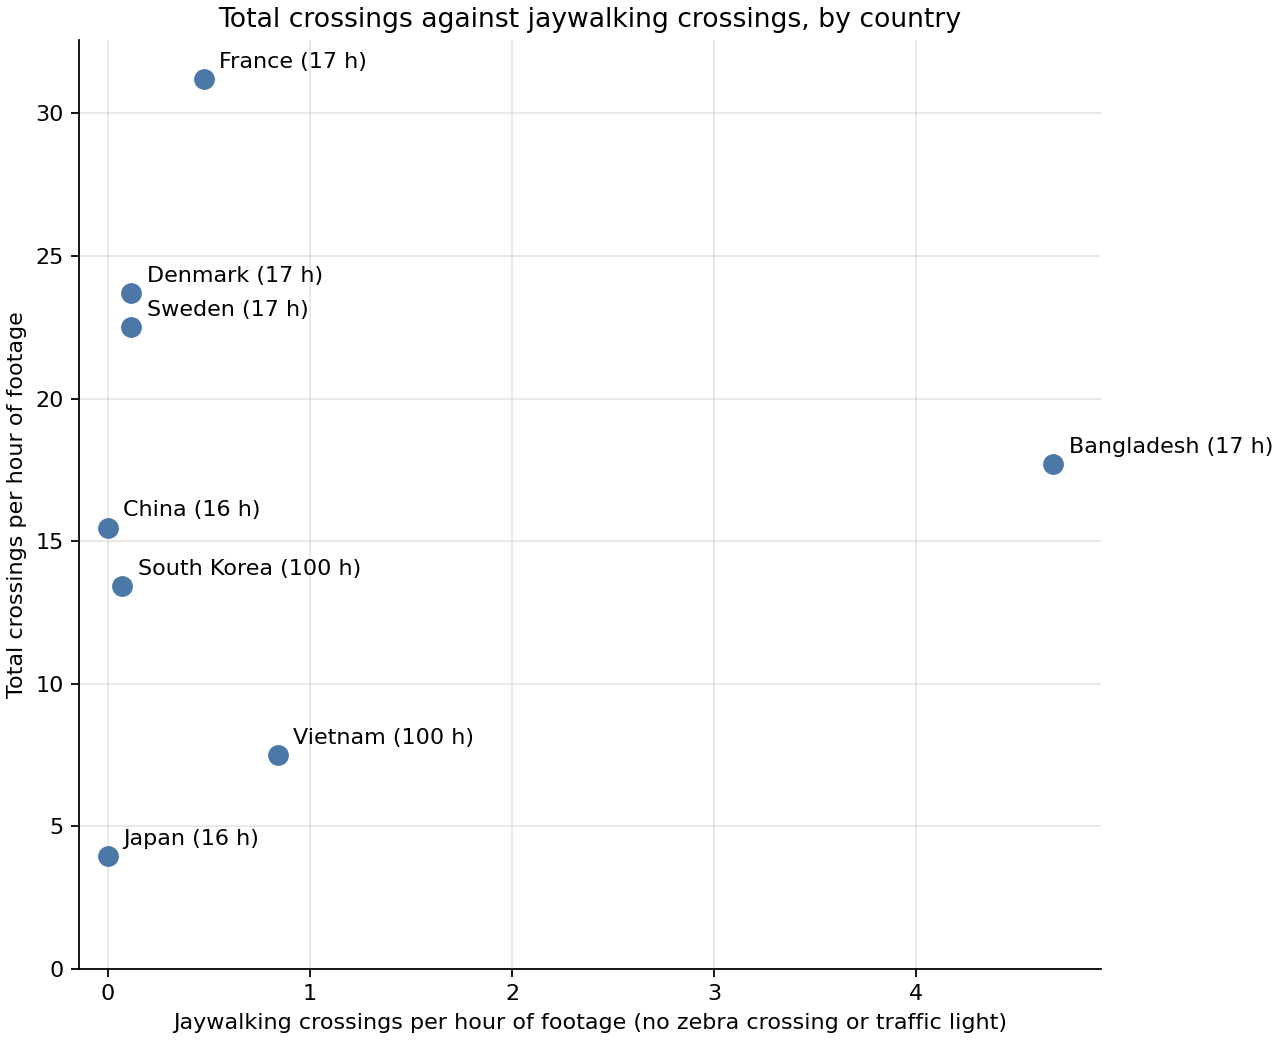
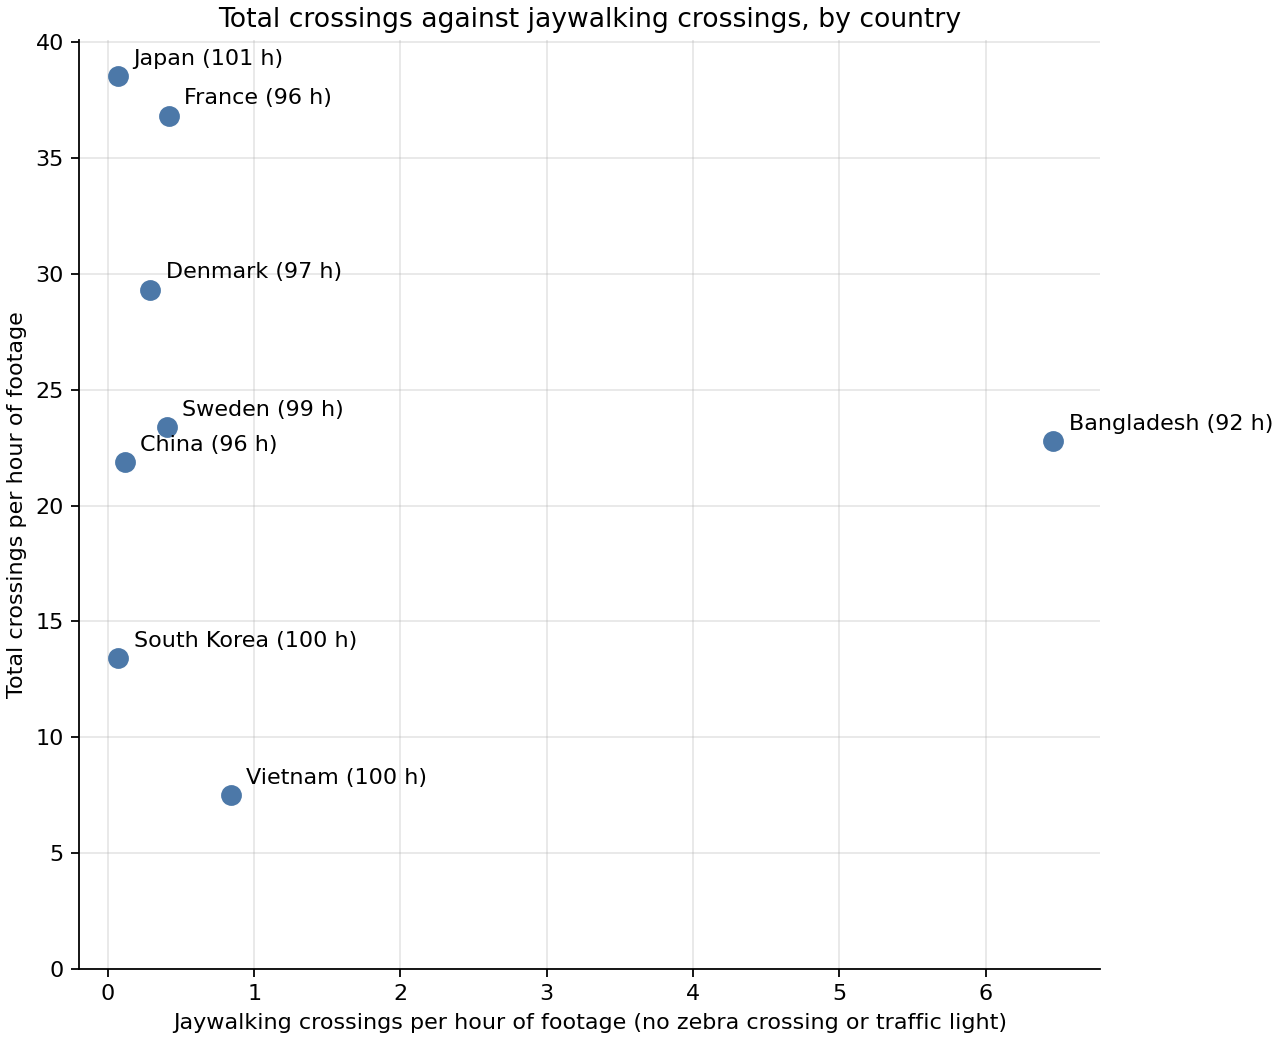
Update the six-country results to the 100 hour capital-first run; leave room for the bar plot legend

diff --git a/scripts/crowd/plot_country_crossings.py b/scripts/crowd/plot_country_crossings.py
@@ -99,7 +99,8 @@ def main() -> None:
         axis.set_ylabel(label)
         axis.set_title(title)
         axis.spines[["top", "right"]].set_visible(False)
-    counts.legend(frameon=False)
+    counts.margins(y=0.15)
+    counts.legend(frameon=False, loc="upper center", ncol=1, bbox_to_anchor=(0.5, 1.0))
     figure.suptitle("Pedestrians crossing the road, daytime dashcam footage")
     output = arguments.run / "crossings_by_country.png"
     figure.savefig(output, dpi=160)

diff --git a/README.md b/README.md
@@ -126,18 +126,18 @@ On all three JAAD splits (train, val, and test; 309 videos):
 
 ### Crossings by country (CROWD samples, stages 1 and 2)
 
-Random samples of daytime footage filmed from a car, run through stages 1 and 2 with the VLM in 4-bit mode (`scripts/crowd/select_country_sample.py`, seed 0). The country law (stage 3) is not used. A crossing counts as
+Daytime footage filmed from a car, run through stages 1 and 2 with the VLM in 4-bit mode (`scripts/crowd/select_country_sample.py`, seed 0). The six-country run fills each country to about 100 hours from its capital first (`--capitals-first`: whole source videos in random order), and only when the capital has too few hours from the next biggest cities. The country law (stage 3) is not used. A crossing counts as
 **without zebra crossing or traffic light** (jaywalking in the table) when stage 1 finds it and the VLM confirms it as a crossing and finds neither a zebra crossing, a traffic light
-nor a crossing sign. Two runs: about 100 hours over China, Japan, Bangladesh, France, Sweden and Denmark (16 to 17 hours each, 338 segments), and 100 hours each for South Korea and Vietnam (515 segments).
+nor a crossing sign. Two runs: about 100 hours each over China, Japan, Bangladesh, France, Sweden and Denmark (1,642 of 1,689 segments finished), and 100 hours each for South Korea and Vietnam, a random sample (515 segments, run earlier).
 
 | Country | Hours | Crossings detected (stage 1) | At a zebra crossing or light | Not confirmed by the VLM | Jaywalking | Jaywalking per hour |
 | --- | ---: | ---: | ---: | ---: | ---: | ---: |
-| China | 16.0 | 247 | 218 | 29 | 0 | 0.00 |
-| Japan | 16.2 | 64 | 54 | 10 | 0 | 0.00 |
-| Bangladesh | 16.9 | 299 | 16 | 204 | **79** | **4.68** |
-| France | 16.9 | 527 | 453 | 66 | 8 | 0.47 |
-| Sweden | 17.2 | 386 | 339 | 45 | 2 | 0.12 |
-| Denmark | 17.3 | 410 | 346 | 62 | 2 | 0.12 |
+| China | 96.3 | 2110 | 1865 | 234 | 11 | 0.11 |
+| Japan | 100.6 | 3878 | 3604 | 267 | 7 | 0.07 |
+| Bangladesh | 92.2 | 2102 | 101 | 1399 | **596** | **6.46** |
+| France | 96.4 | 3551 | 2915 | 592 | 40 | 0.42 |
+| Sweden | 99.1 | 2318 | 1930 | 336 | 40 | 0.40 |
+| Denmark | 97.3 | 2854 | 2348 | 470 | 28 | 0.29 |
 | South Korea | 100.1 | 1344 | 1191 | 145 | 7 | 0.07 |
 | Vietnam | 100.0 | 749 | 198 | 464 | **84** | **0.84** |
 
@@ -155,10 +155,10 @@ Per country, the crossings detected, those at a zebra crossing or light, and the
 
 ![Crossings per country, South Korea and Vietnam](docs/images/korea_vietnam_crossings.png)
 
-* The three right-hand counts add up to the detected crossings, except for 4 crossings the VLM left `UNCERTAIN` (1 in South Korea, 3 in Vietnam). A crossing the VLM crossing check does not confirm is never judged for a zebra crossing or light, so it counts in neither of the other two columns. The jaywalking column is therefore a lower bound if the VLM wrongly rejected real crossings; Bangladesh (204 of 299) and Vietnam (464 of 749) have the most.
-* Bangladesh stands out with 4.7 jaywalking crossings per hour of footage, then Vietnam with 0.8; the other six countries have 0.5 or fewer. South Korea has the most crossings of all (1344) but almost all are at a zebra crossing or a traffic light. In China and Japan every crossing the VLM confirmed was at a zebra crossing or a traffic light.
-* 338 of 341 segments of the first run finished (one had no precomputed track file, one yielded no video frames, one is missing); all 515 of the second finished.
-* The samples are random over the daytime car footage of each country, so large cities dominate (Paris, Stockholm, Copenhagen, Sylhet, Guangzhou). The counts are not checked by hand; `scripts/crowd/make_verification_clips.py` cuts a random sample of clips, with the person's box drawn, to check them by eye.
+* The three right-hand counts add up to the detected crossings, except for 34 crossings the VLM left `UNCERTAIN` (30 in the six-country run: Sweden 12, Denmark 8, Bangladesh 6, France 4; 1 in South Korea, 3 in Vietnam). A crossing the VLM crossing check does not confirm is never judged for a zebra crossing or light, so it counts in neither of the other two columns. The jaywalking column is therefore a lower bound if the VLM wrongly rejected real crossings; Bangladesh (1399 of 2102) and Vietnam (464 of 749) have the most.
+* Bangladesh stands out with 6.5 jaywalking crossings per hour of footage, then Vietnam with 0.8; the other six countries have 0.5 or fewer. Japan has the most crossings of all (3878) and France the next most (3551), almost all at a zebra crossing or a traffic light; the per-hour rates are much higher than in the earlier 17-hour samples because the sample is now dominated by dense capitals. Bangladesh has only about 96 hours of daytime car footage in the mapping and only 12.6 of them are Dhaka (Sylhet has 69), so its rate describes Sylhet more than the capital.
+* 1,642 of 1,689 segments of the six-country run finished; 47 failed after a retry (22 without a precomputed track file, 15 whose video could not be opened, 10 server download errors), which is why China, France and Bangladesh are a few hours under 100 (the failed segments are listed in `errors.csv`). All 515 segments of the South Korea and Vietnam run finished.
+* The six-country hours are Tokyo 100.6; Paris 100.0; Copenhagen 100.2; Stockholm 98.5 and Gothenburg 1.6; Beijing 45.6, Shanghai 34.2 and Shenzhen 20.3; Sylhet, Dhaka and 22 other Bangladeshi towns (selected hours, before failures). The counts are not checked by hand; `scripts/crowd/make_verification_clips.py` cuts a random sample of clips, with the person's box drawn, to check them by eye.
 * "Korea" is South Korea; North Korea has only 2.4 hours of footage in the mapping.
 
 ## Setup
